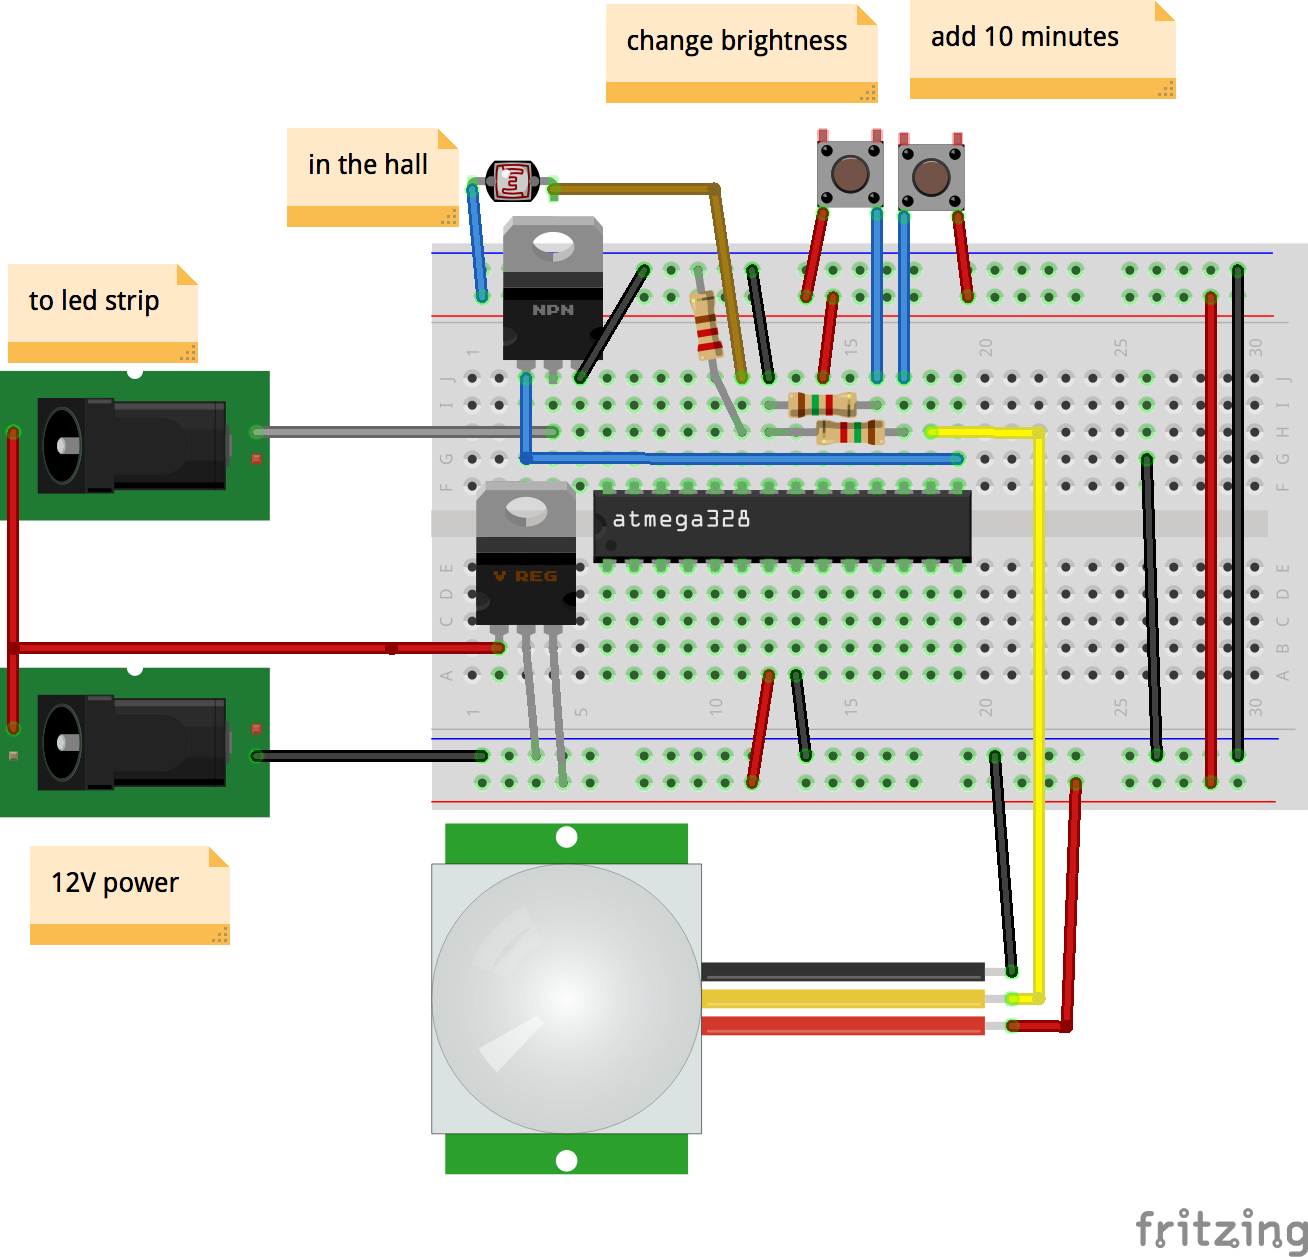
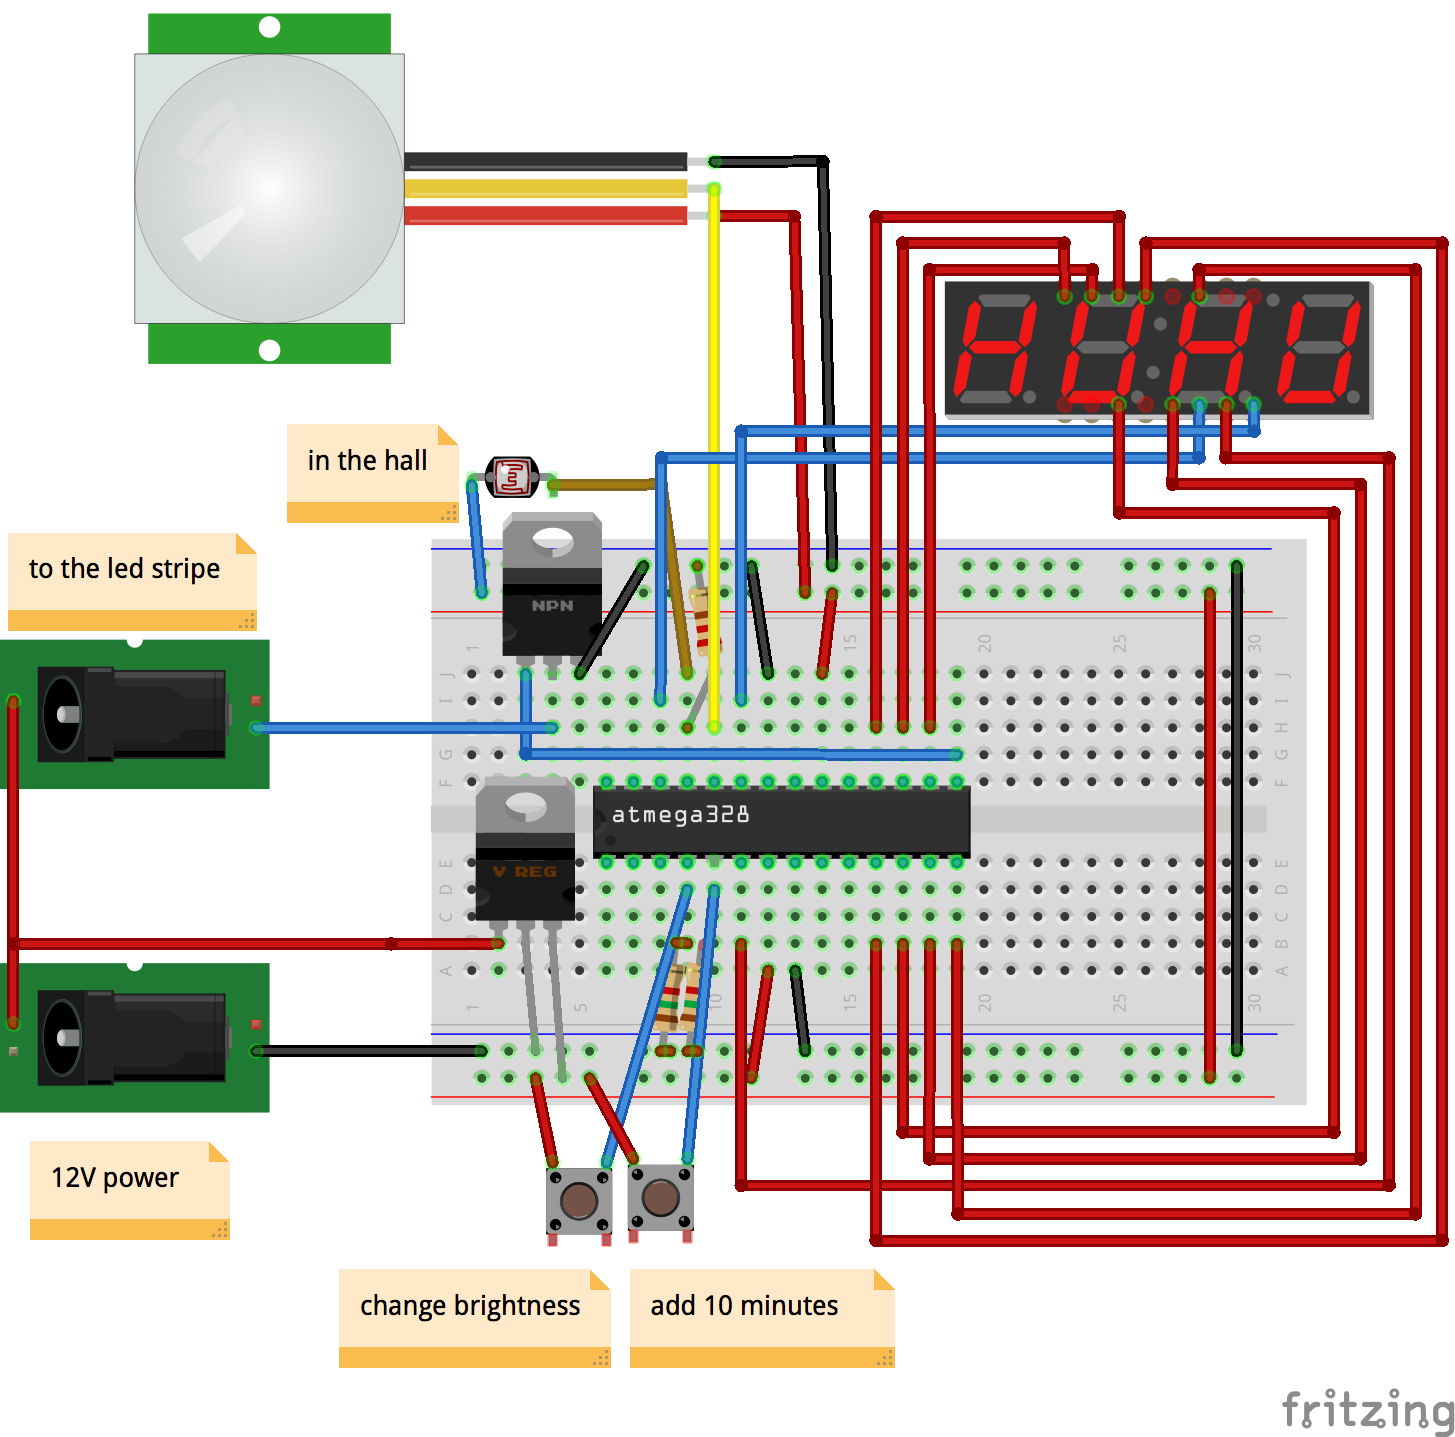
add seven segment display

diff --git a/bathroom_light/LightLogic.cpp b/bathroom_light/LightLogic.cpp
@@ -5,6 +5,10 @@ LightLogic::LightLogic() {
     wasEverTurnedOff = false;
 }
 
+unsigned char LightLogic::timeLeft() const {
+    return minutesLeft;
+}
+
 void LightLogic::changeBrightness() {
     isBright = !isBright;
 }

diff --git a/bathroom_light/LightLogic.hpp b/bathroom_light/LightLogic.hpp
@@ -15,6 +15,7 @@ public:
     void changeBrightness();
     void loop();
     int currentBrightness();
+    unsigned char timeLeft() const;
     
 private:
     unsigned char minutesLeft;

diff --git a/README.md b/README.md
@@ -9,6 +9,7 @@ It's so much useful so I even removed regular bulb — it became redundant.
 <li>On motion detection trigger for N minutes (prolongation works)</li>
 <li>Buttons to change brightness or add 10 more minutes</li>
 <li>Automatically fades in and out</li>
+<li>Display how much time left</li>
 <li>Covered with tests! 🚀</li>
 <li>Modular source code 🔥</li>
 </ul>
@@ -17,7 +18,11 @@ It's so much useful so I even removed regular bulb — it became redundant.
 
 ## "I have another microcontroller!", "I have Arduino board instead"... ##
 
-It's okay. This code was initially written for Arduino Nano and later moved to single ATMega328 processor. Just change pins definition and you're done. It should be even compatible with ATTiny processors.
+It's okay. This code was initially written for Arduino Nano and later moved to single ATMega8 processor. Every Arduino should work fine, just change pins definition and you're done. It should be even compatible with ATTiny processors.
+
+## Dependencies ##
+
+* [SevSeg](https://github.com/DeanIsMe/SevSeg) for easy seven segment display operation
 
 ## License ##
 
